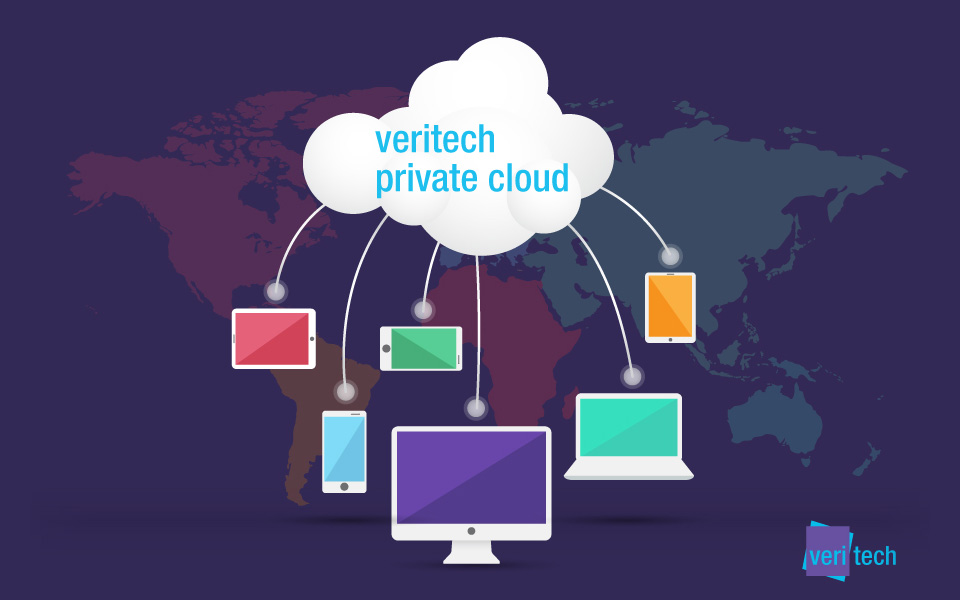
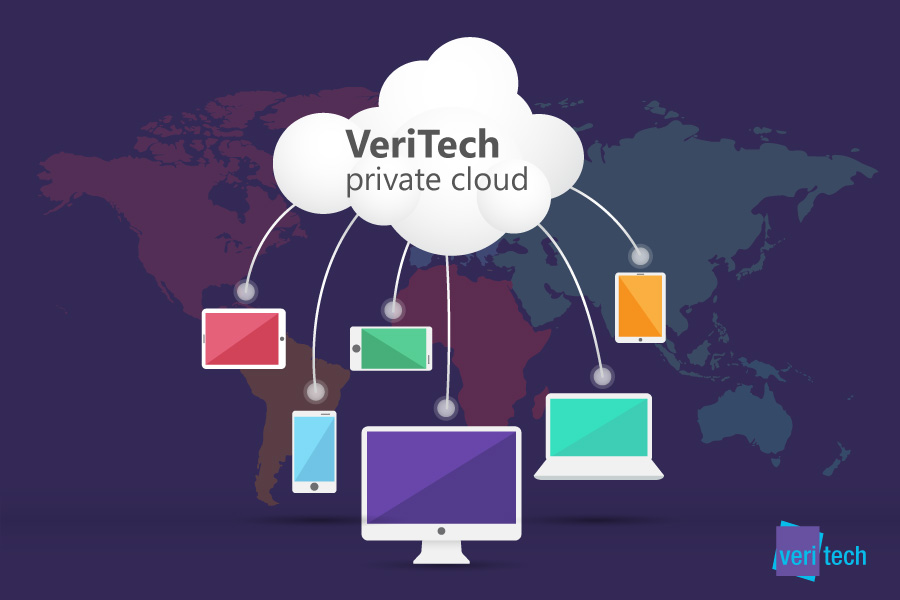
update iisstart

diff --git a/iisstart.htm b/iisstart.htm
@@ -8,8 +8,8 @@
     <meta name="apple-mobile-web-app-capable" content="yes">
     <meta name="apple-mobile-web-app-status-bar-style" content="black-translucent">
     <meta name="robots" content="noindex, nofollow">
-    <meta name="description" content="Veritech">
-    <meta name="author" content="VeriTech">
+    <meta name="description" content="VeriTech private cloud">
+    <meta name="author" content="VeriTech Solutions">
 
     <meta name="ROBOTS" content="NOINDEX, NOFOLLOW">
 
@@ -17,6 +17,6 @@
 </head>
 <body style="background: #322956; text-align: center; padding: 30px 5px;">
 
-    <a href="http://veritech.io"><img src="private-cloud.jpg" width="960" style="max-width: 100%;" alt="Veritech private cloud" /></a>
+    <a href="http://veritech.io"><img src="private-cloud.jpg" width="900" style="max-width: 100%;" alt="VeriTech private cloud" /></a>
 </body>
 </html>
